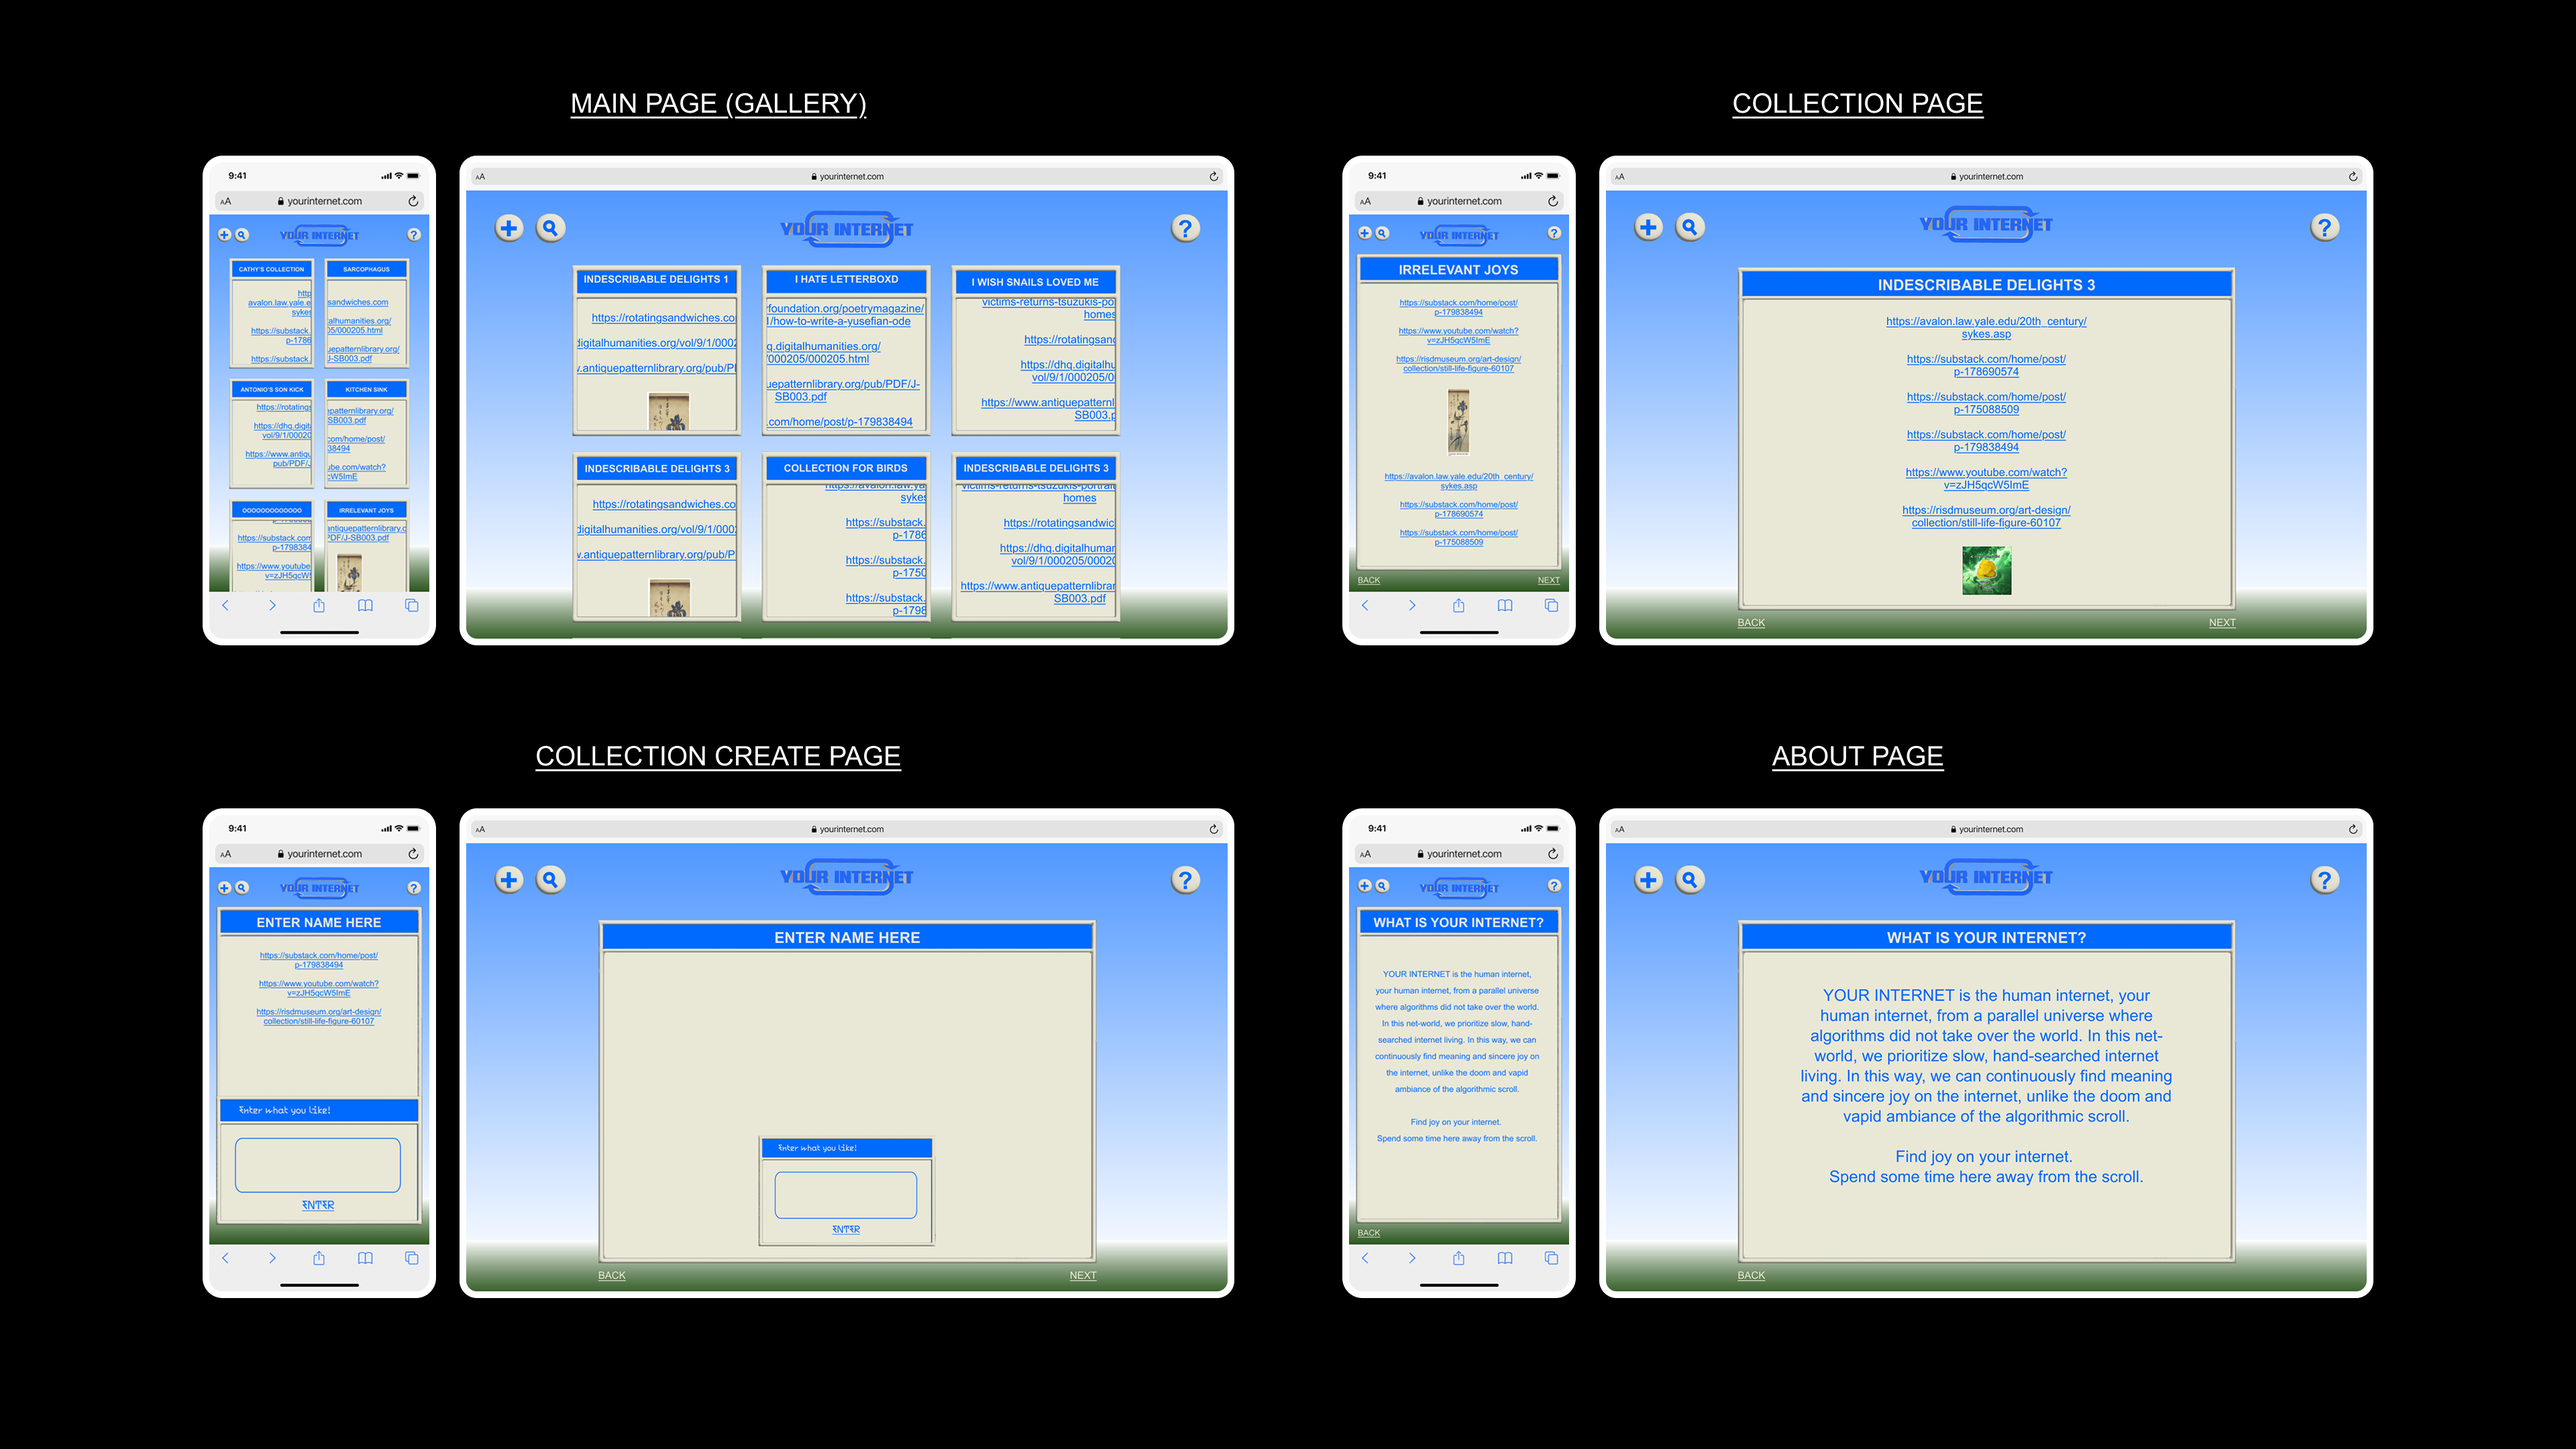
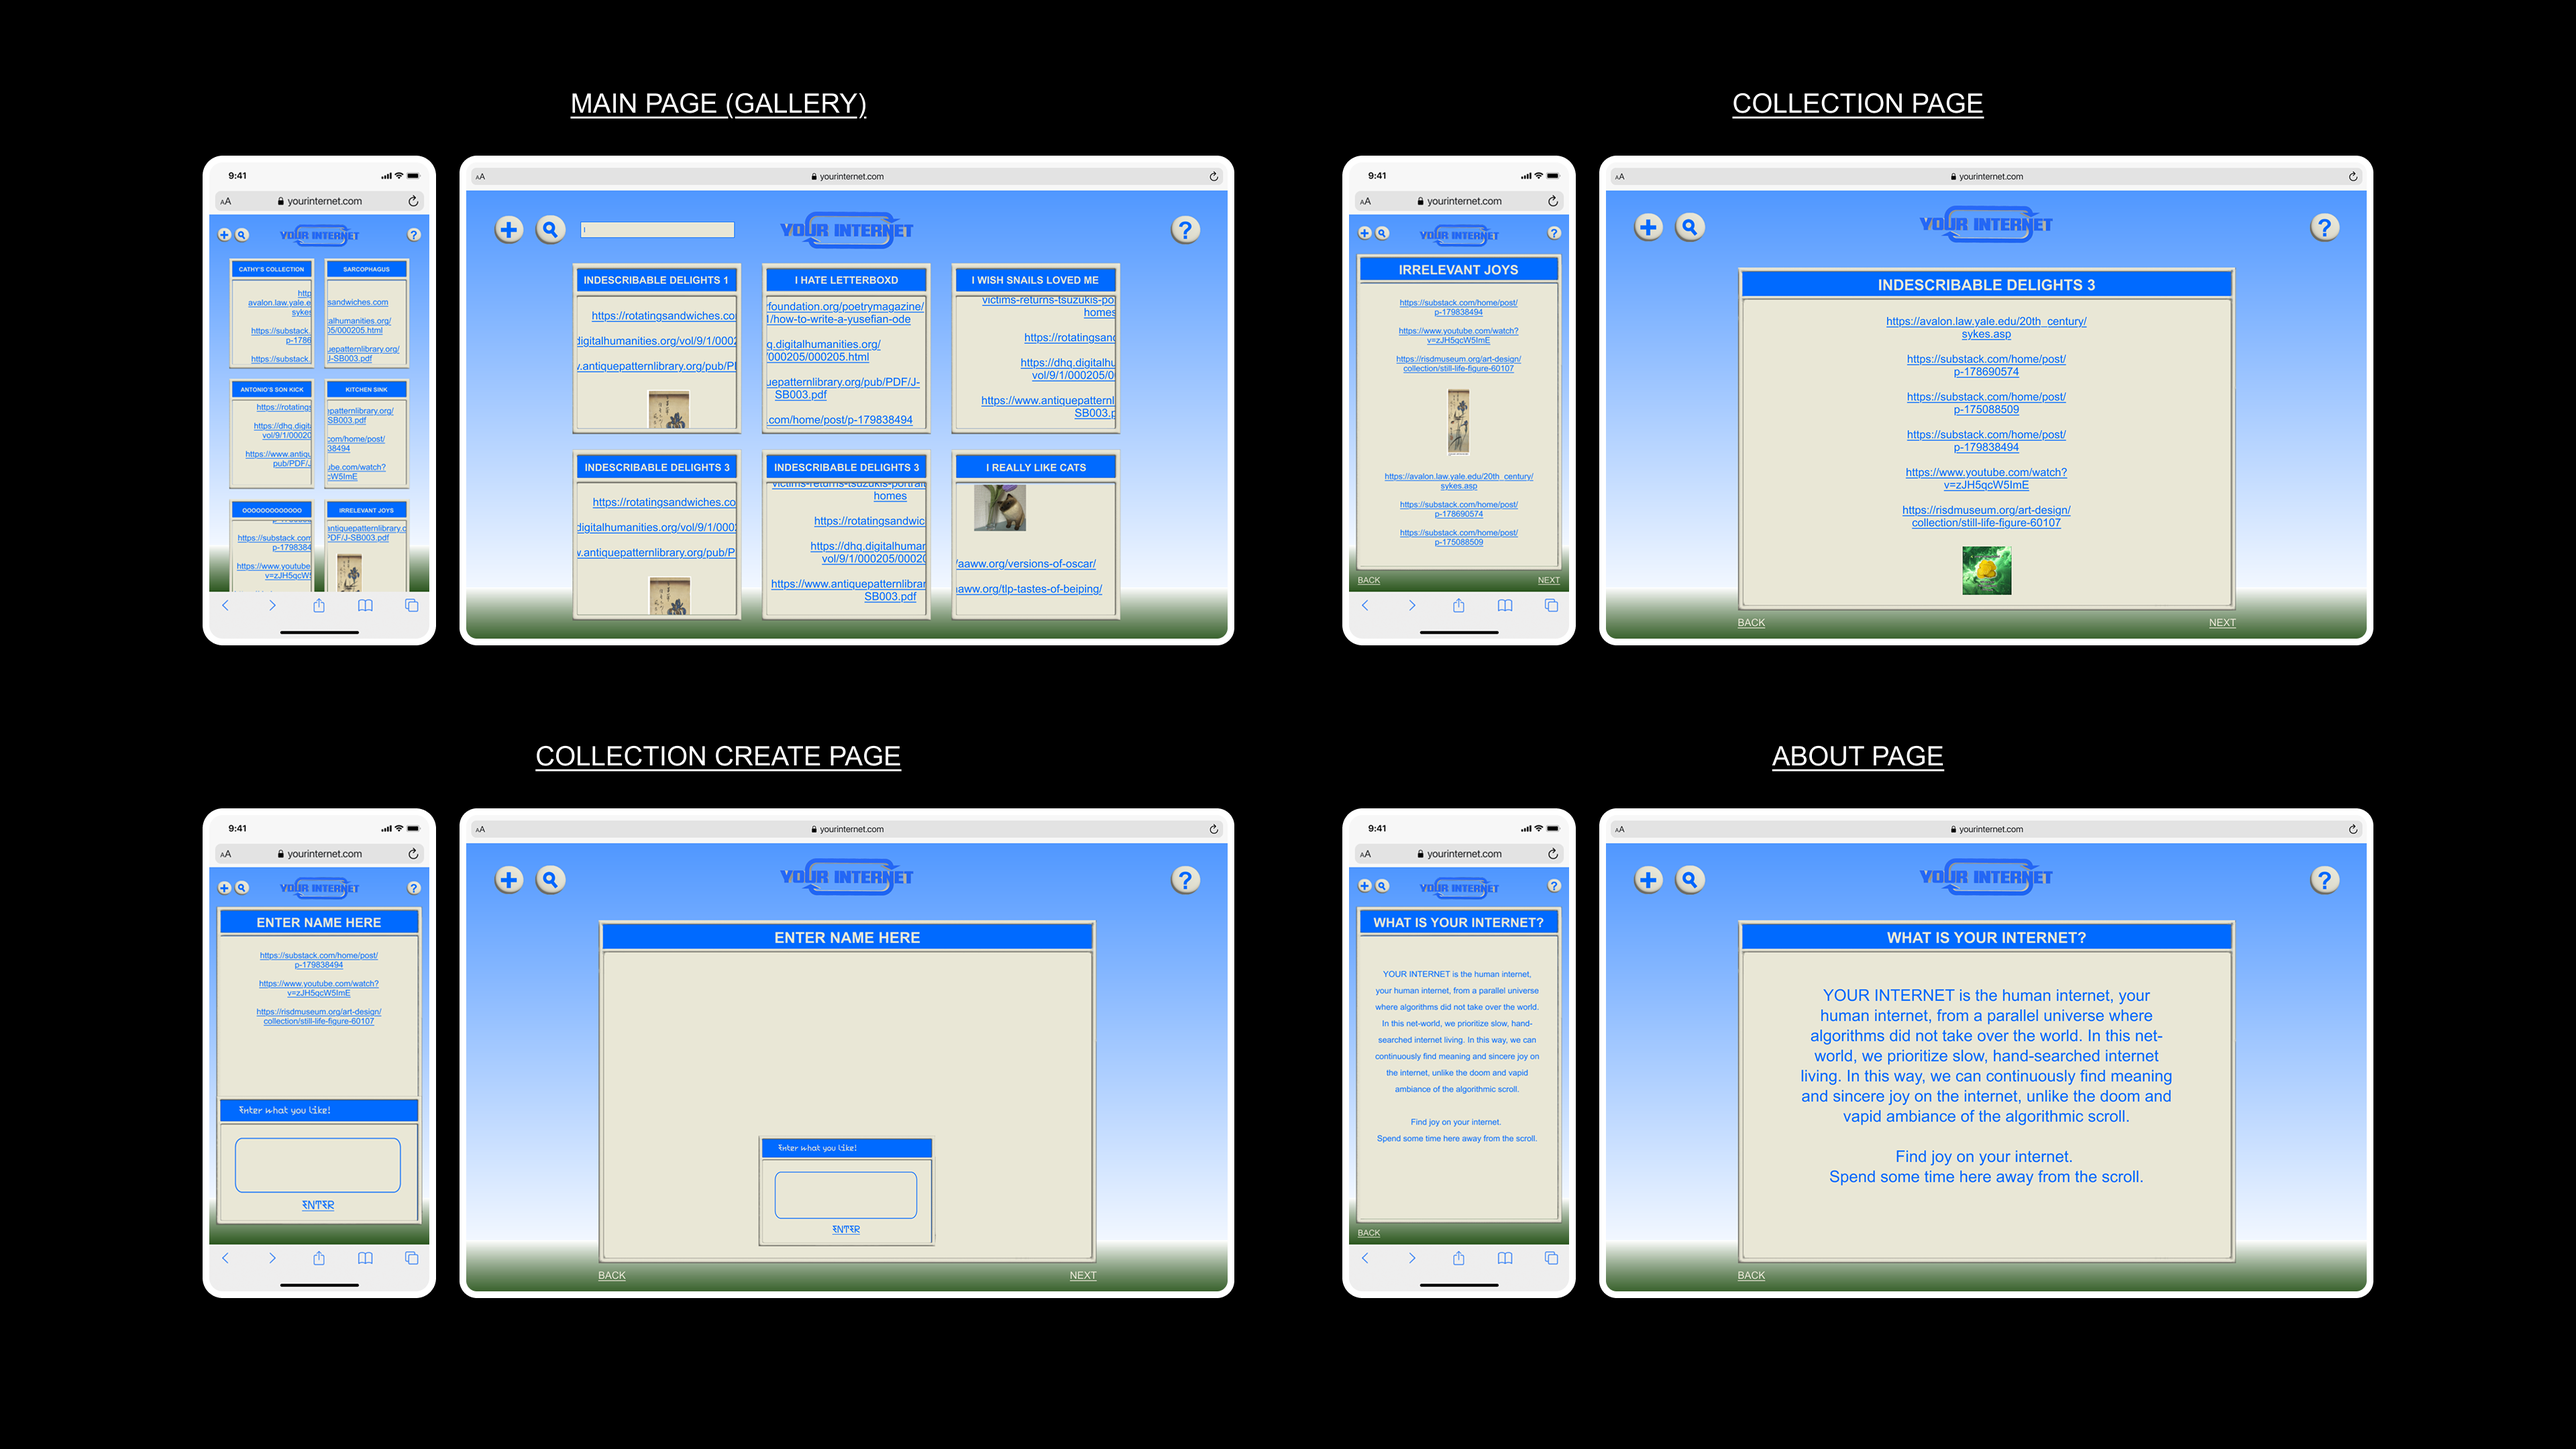
siteseeing added

Changed region(s): [[0.1875, 0.1241, 0.4375, 0.4343]]

diff --git a/js/data/portfolio-data.js b/js/data/portfolio-data.js
@@ -125,15 +125,15 @@ export const portfolioWorks = [
     },
     {
         id: 6,
-        title: "WOMBAT",
-        category: "Typeface",
-        year: "TIME FALL 2024",
+        title: "8N ADVISORY",
+        category: "WEB, IDENTITY",
+        year: "TIME WINTER 2025",
         collaborators: "",
-        for:"TYPE I with Min Hee Lee",
-        deliverables:"Custom Type, Specimen Book",
+        for:"FOR 8N Advisory",
+        deliverables:"Website, Identity, Brand Guidelines",
         thumbnailSrc: "assets/Wombat/photo 3.png",
         heroImageSrc: "",
-        description: "An interactive sound visualization that explores the boundary between meaningful signal and random noise. Users can manipulate audio parameters to create unique visual compositions.",
+        description: "8N ADVISORY & STUDIO 8N are the two halves of my client’s practice which he wanted connected yet separate identities for. 8N ADVISORY is a gallery initiative helps early-career artists gain visibility, place work with collectors, and access exhibition opportunities. In this project, I was primarily responsible creating an identity and website for this initiative that was approchable yet elevated, and would center represented artists and their work.",
         position: "right",
         aspectRatio: "landscape"
     },
@@ -153,14 +153,19 @@ export const portfolioWorks = [
     },
     {
         id: 8,
-        title: "SEEING SITES",
-        category: "Interactive Media",
-        year: "",
+        title: "SEEING & SITES",
+        category: "Poster Series",
+        year: "Fall 2025",
         collaborators: "",
-        for:"",
-        deliverables:"",
-        thumbnailSrc: "",
-        heroImageSrc: "",
+        for:"FOR DS III with Paul Soulellis",
+        deliverables:"Two 24x36 inch Posters",
+        thumbnailSrc: "assets/Siteseeing/ssthumbnail.png",
+        heroImageSrc: "bothongrass.png",
+        Images:[
+            "assets/Siteseeing/siteseeingboth.jpg",
+            "assets/Siteseeing/dismal.jpg",
+            "assets/Siteseeing/seeingdetail.jpg",
+        ],
         description: "An interactive sound visualization that explores the boundary between meaningful signal and random noise. Users can manipulate audio parameters to create unique visual compositions.",
         position: "right",
         aspectRatio: "landscape"

diff --git a/js/components/detail-view.js b/js/components/detail-view.js
@@ -16,7 +16,7 @@ function createVimeoEmbed(vimeoId, title) {
     container.style.position = 'relative';
 
     const iframe = document.createElement('iframe');
-    iframe.src = `https://player.vimeo.com/video/${vimeoId}?badge=0&autopause=0&player_id=0&app_id=58479&controls=0&autoplay=1&muted=1&loop=1`;
+    iframe.src = `https://player.vimeo.com/video/${vimeoId}?badge=0&autopause=0&player_id=0&app_id=58479&controls=0&autoplay=1&muted=1&loop=1&quality=1080p`;
     iframe.frameBorder = '0';
     iframe.allow = 'autoplay; fullscreen; picture-in-picture; clipboard-write; encrypted-media; web-share';
     iframe.referrerPolicy = 'strict-origin-when-cross-origin';
